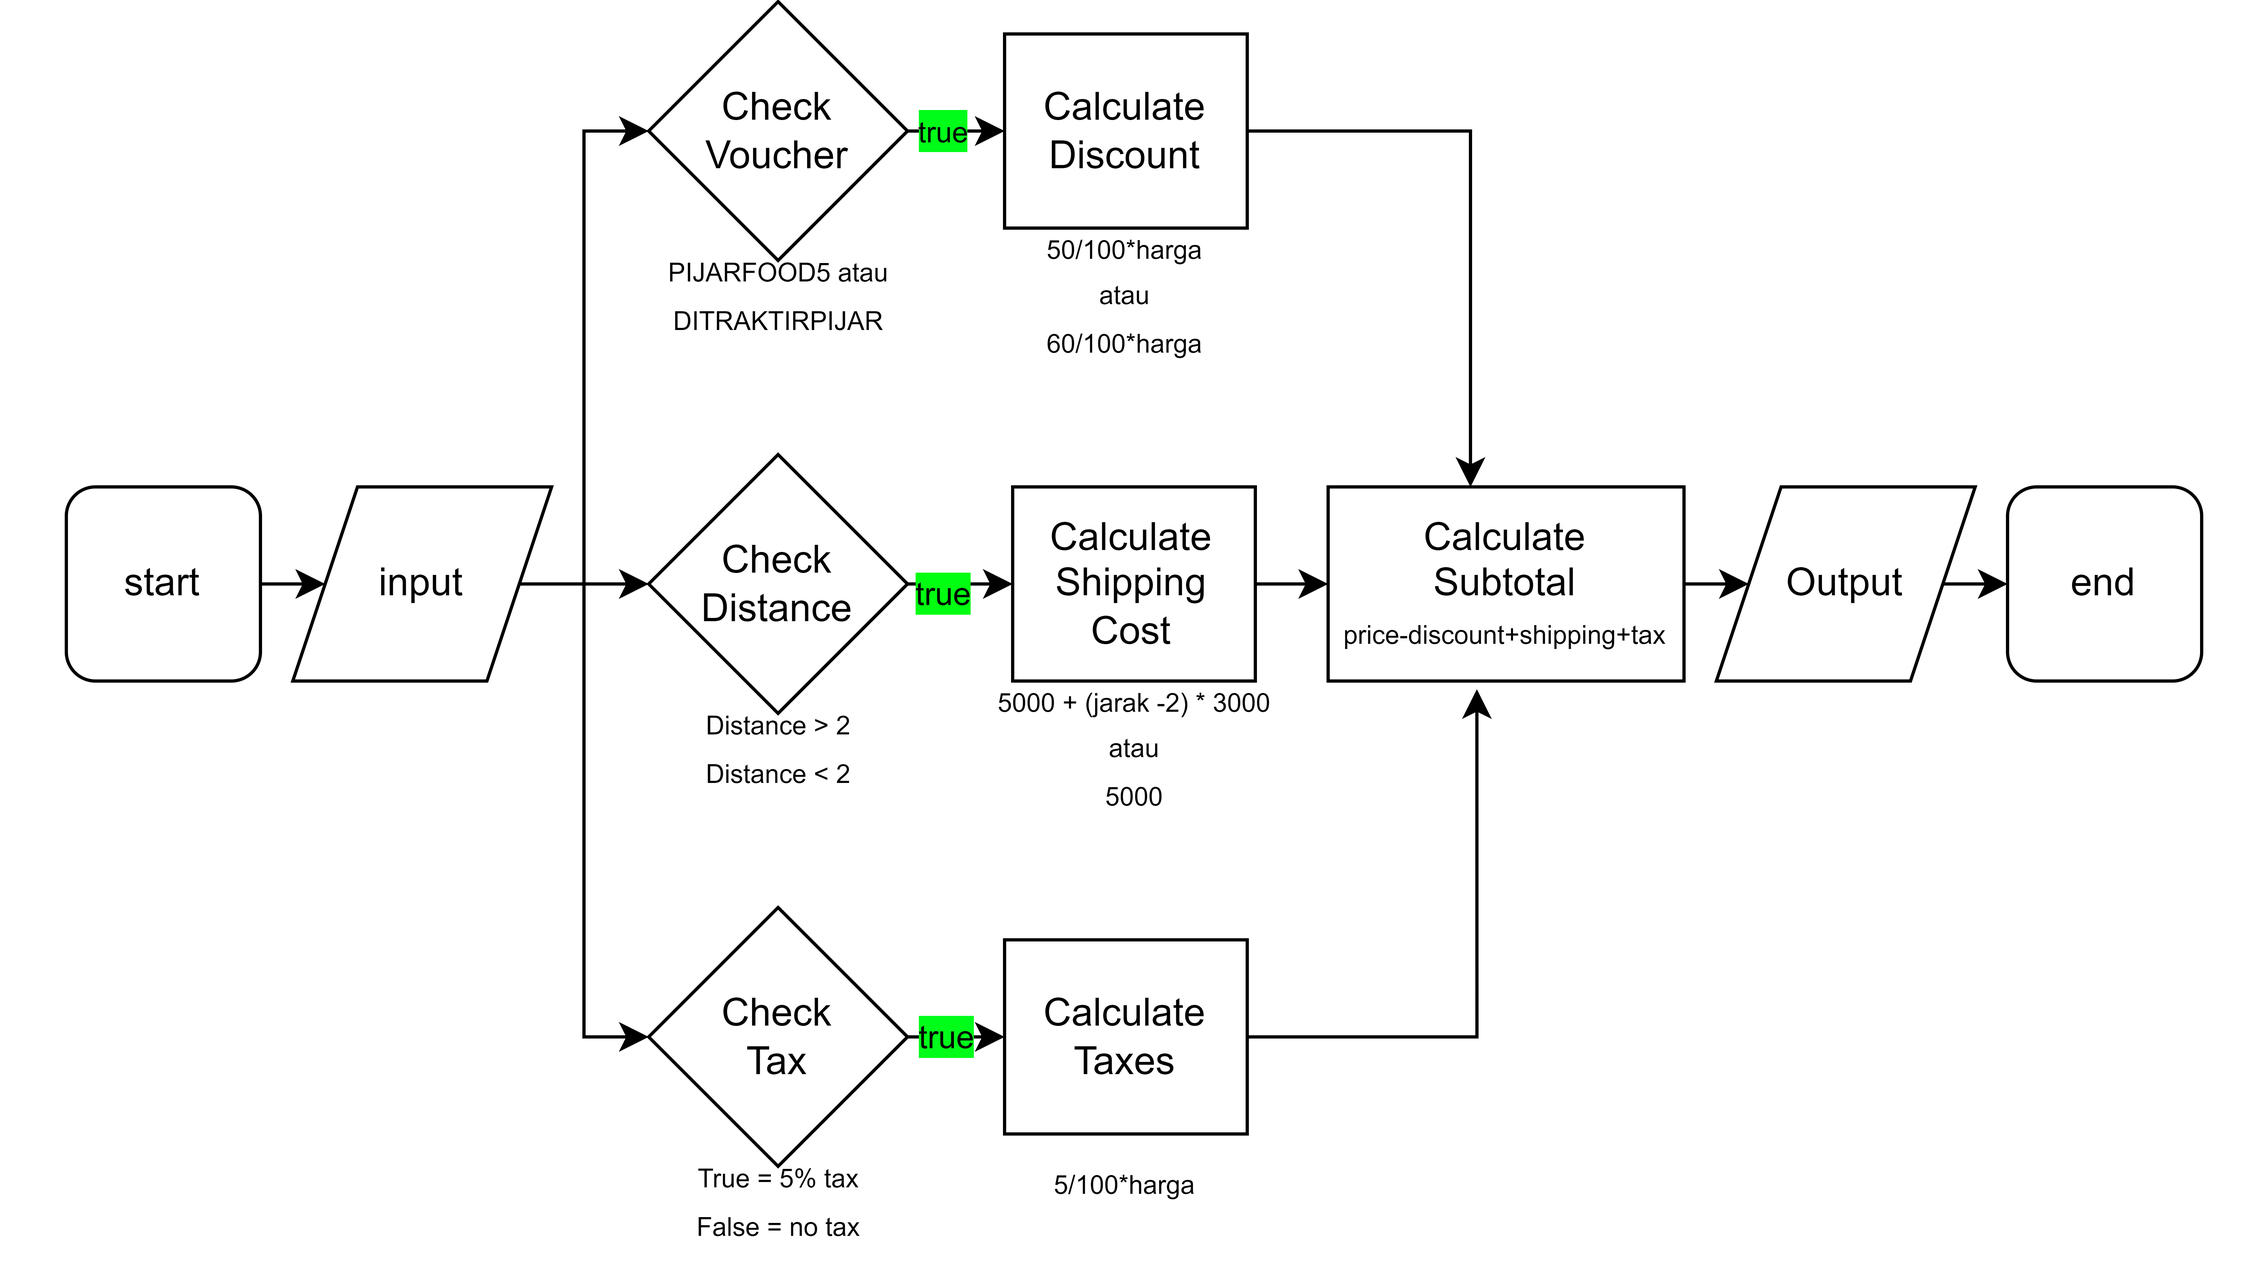
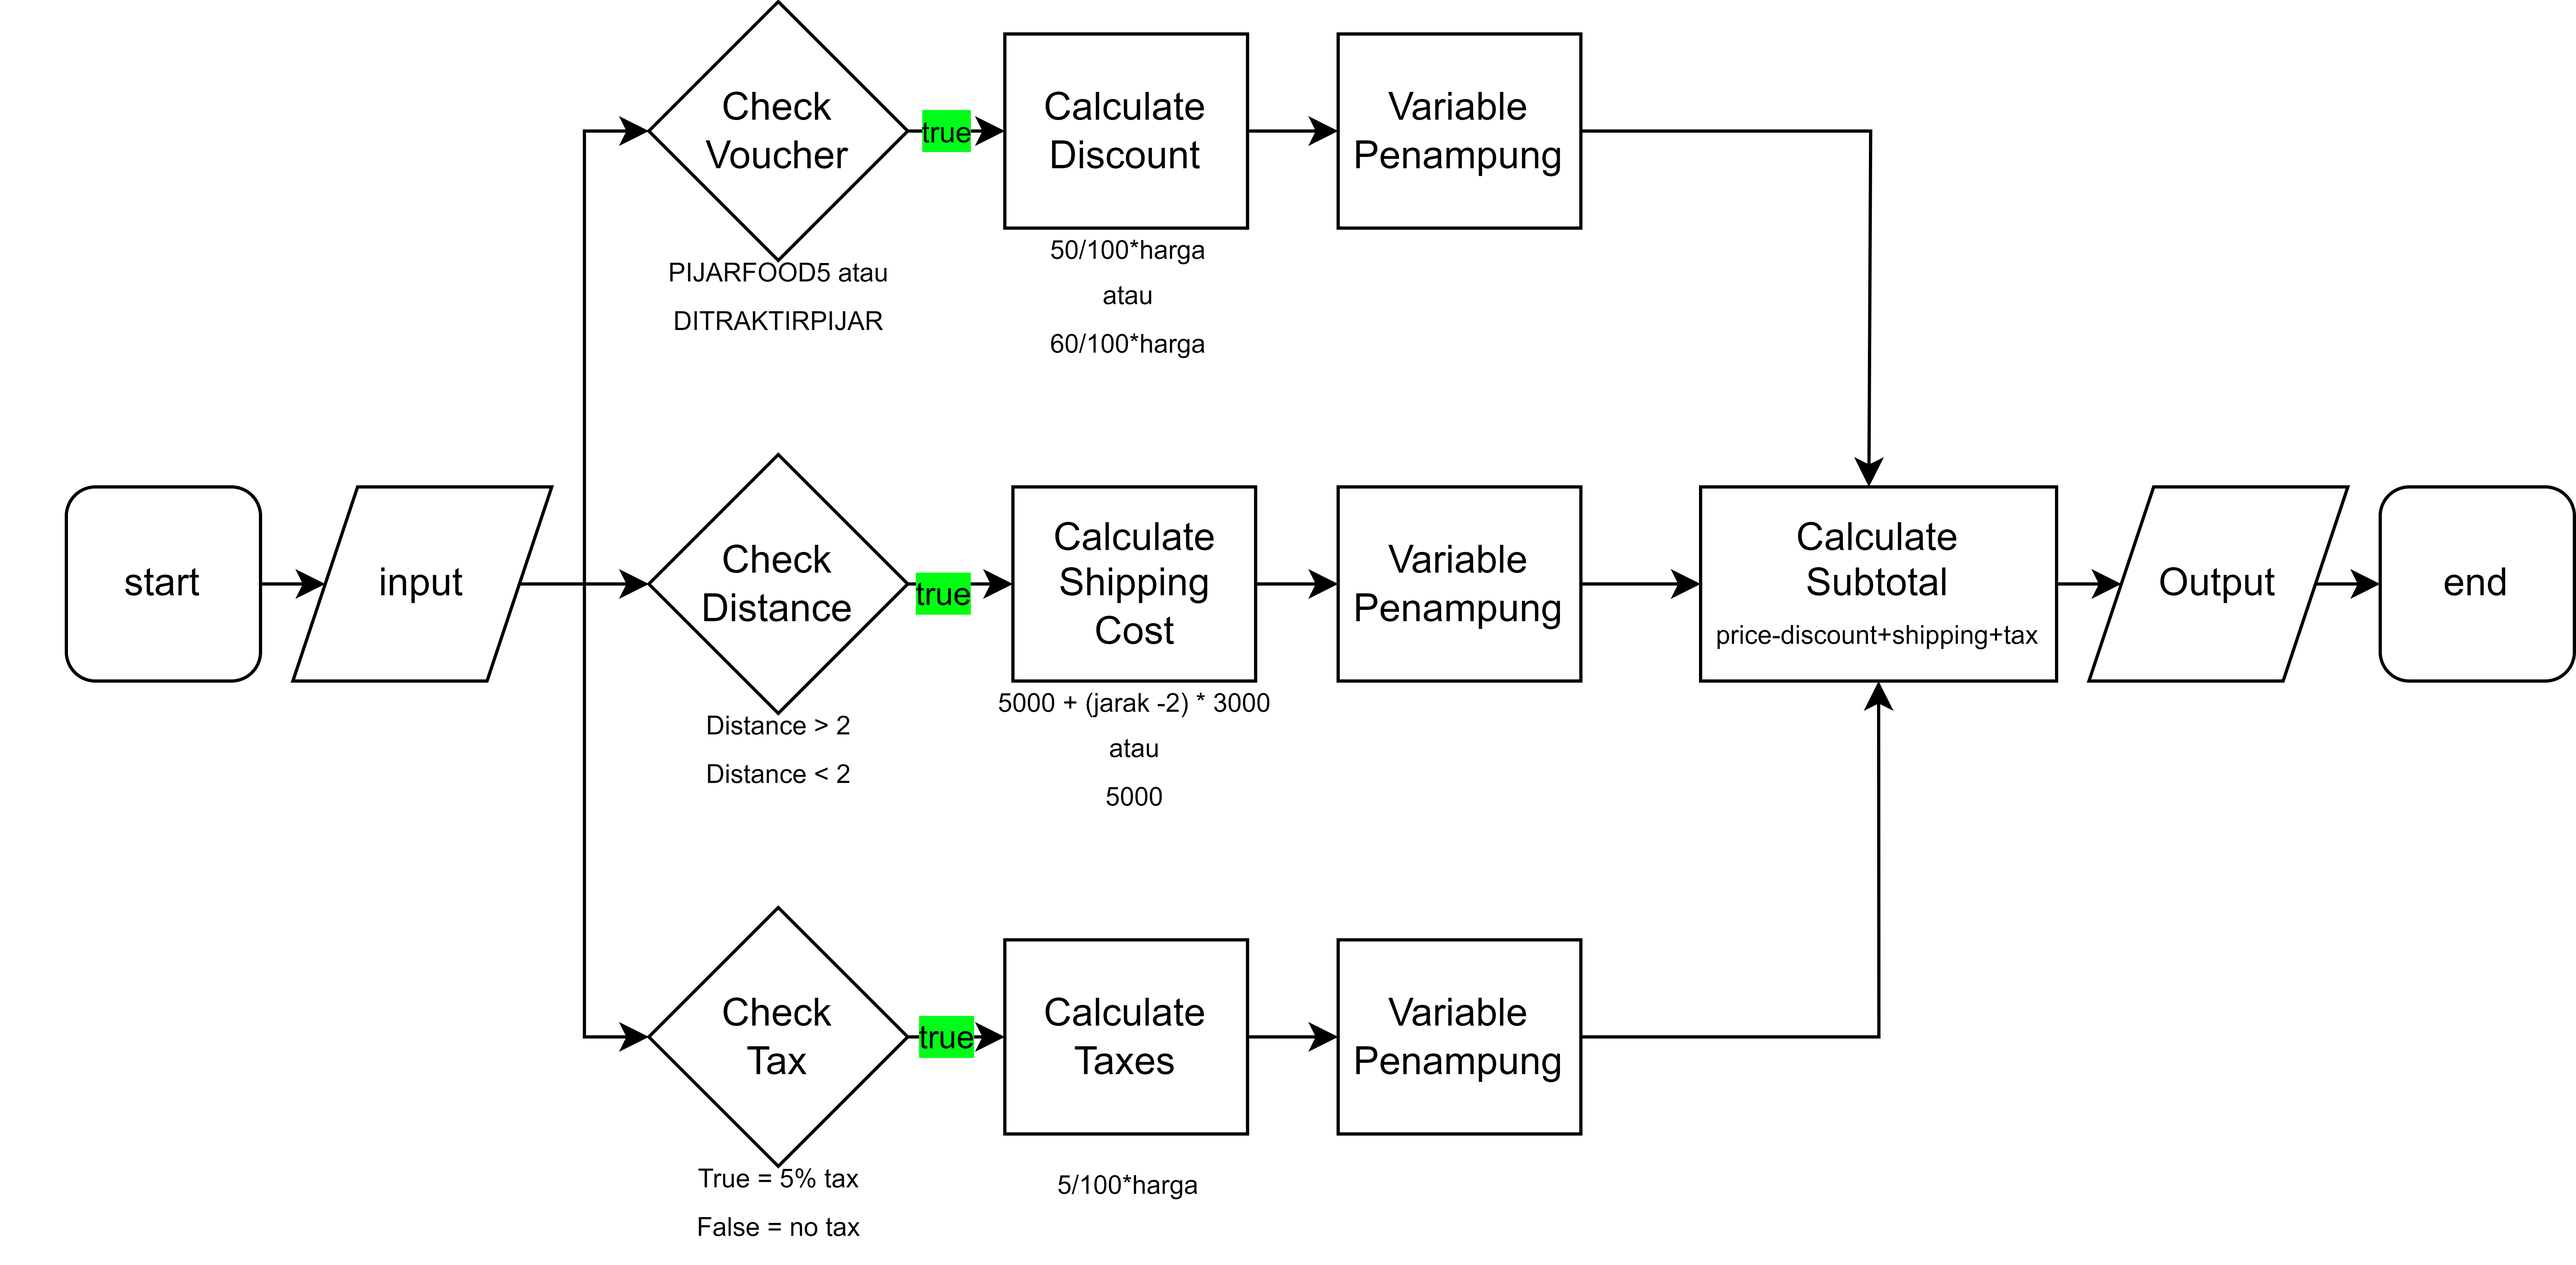
revision readme.md

diff --git a/README.md b/README.md
@@ -1,44 +1,136 @@
-<h1>Exercise - Code Implement</h1>
-<h2>Nomor 1</h2>
-<h3>a. Code Deteksi Palindrom</h3>
-<img src="./assets/1a.png" alt="" style="width: 600px;">
-<h3>b. Code Words Reverse</h3>
-<img src="./assets/1b.png" alt="" style="width: 600px;">
+# Exercise - Code Implement
+## Nomor 1
+### a. Code Deteksi Palindrom
+
+```
+const detectPalindrom = (inputText) => {
+  let loopTextFront = '';
+  let loopTextBack = '';
+  if (typeof inputText === 'string') {
+    let splitText = inputText.toLowerCase().split('');
+    for (let i = 0; i <= splitText.length - 1; i++) {
+      loopTextFront += splitText[i];
+    }
+    for (let i = splitText.length - 1; i >= 0; i--) {
+      loopTextBack += splitText[i];
+    }
+    if (loopTextFront === loopTextBack) {
+      console.log('Palindrom');
+    } else {
+      console.log('Bukan palindrom');
+    }
+  } else {
+    console.log('Input bukan string');
+  }
+};
+
+detectPalindrom('Kasur ini rusak');
+```
+
+### b. Code Words Reverse
+
+```
+const wordsReverse = (inputWords) => {
+  let loopWordBack = '';
+  if (typeof inputWords === 'string') {
+    let splitWords = inputWords.split(' ');
+    for (let i = splitWords.length - 1; i >= 0; i--) {
+      loopWordBack += splitWords[i] + ' ';
+    }
+    console.log(loopWordBack.trim());
+  } else {
+    console.log('Input bukan string');
+  }
+};
+```
 <br>
 <br>
 <br>
 <br>
-<h2>Nomor 2</h2>
-<h3>Flowchart Pijar Food</h3>
+
+## Nomor 2
+### Flowchart Pijar Food
 <img src="./assets/2js.png" alt="" style="width: 600px">
-<h3>Algoritma Pijar Food</h3>
+
+### Algoritma Pijar Food
 <ol>
     <li>Mulai</li>
     <li>Memeriksa jenis voucher dan harga untuk menghitung potongan yang sesuai</li>
     <li>Memeriksa jarak untuk menghitung biaya antar yang sesuai</li>
     <li>Memeriksa apakah perlu menghitung pajak</li>
-    <li>Menghitung subtotal berdasarkan harga, potongan, biaya antar, dan pajak</li>
+    <li>Hasil hitung rumus masukkan ke variabel penampung</li>
+    <li>Menghitung subtotal berdasarkan harga, potongan, biaya antar, dan pajak dengan memanggil variabel penampung</li>
     <li>Mencetak hasil harga, potongan, biaya antar, pajak, dan subtotal</li>
     <li>Selesai</li>
 </ol>
-<h3>Code Pijar Food</h3>
-<img src="./assets/2.png" alt="" style="width: 600px;">
+
+### Code Pijar Food
+
+```
+const PijarFood = (harga, voucher, jarak, pajak) => {
+  let potongan = 0;
+  let biayaAntar = 5000;
+  let pajakTambahan = 0;
+  let subtotal = 0;
+
+  if (voucher === 'PIJARFOOD5' && harga >= 50000) {
+    potongan = Math.min(harga * 0.5, 50000); //maka akan ambil yang minimal
+  } else if (voucher === 'DITRAKTIRPIJAR' && harga >= 25000) {
+    potongan = Math.min(harga * 0.6, 30000); //maka akan ambil yang minimal
+  }
+
+  if (jarak > 2) {
+    biayaAntar = biayaAntar + ((jarak - 2) * 3000);
+  } 
+
+  if (pajak) {
+    pajakTambahan = harga * 0.05;
+  }
+
+  subtotal = harga - potongan + biayaAntar + pajakTambahan;
+
+  console.log(`Harga      : ${harga}`);
+  console.log(`Potongan   : ${potongan}`);
+  console.log(`Biaya Antar: ${biayaAntar}`);
+  console.log(`Pajak      : ${pajakTambahan}`);
+  console.log(`SubTotal   : ${subtotal} (harga - potongan + biaya antar + pajak)`);
+};
+
+PijarFood(75000, 'PIJARFOOD5', 5, true);
+```
+
 <br>
 <br>
 <br>
 <br>
-<h2>Nomor 3</h2>
-<h3>Flowchart Divide and Sort</h3>
+
+## Nomor 3
+### Flowchart Divide and Sort
 <img src="./assets/3js.png" alt="" style="width: 600px;">
-<h3>Algoritma Divide and Sort</h3>
+
+### Algoritma Divide and Sort
 <ol>
     <li>Mulai</li>
     <li>Mengonversi input menjadi string dan membaginya dengan menggunakan pemisah '0'</li>
     <li>Melakukan perulangan untuk setiap elemen, memecah setiap elemen menjadi array karakter substring, mengurutkannya.</li>
-    <li>Memasukkan proses sortir ke dalam array hasil sortir</li>
+    <li>Memasukkan proses sortir ke dalam variabel penampung hasil sortir</li>
     <li>Menggabungkan semua elemen dalam hasil sortir menjadi satu dengan join kemudian ubah lagi ke number dengan parseInt</li>
     <li>Mencetak hasilnya</li>
     <li>Selesai</li>
 </ol>
-<h3>Code Divide and Sort</h3>
-<img src="./assets/3.png" alt="" style="width: 600px;">
+
+### Code Divide and Sort
+
+```
+const divideAndSort = (isiAngka) =>{
+    let hasilSort = []
+    let divideZero = isiAngka.toString().split('0')
+    for (let i = 0; i < divideZero.length; i++){
+        const prosesSort = divideZero[i].split('').sort((a,b)=> a-b).join('')
+        hasilSort.push(prosesSort)
+    }
+    console.log(parseInt(hasilSort.join('')))
+}
+
+divideAndSort(5956560159466056)
+```
